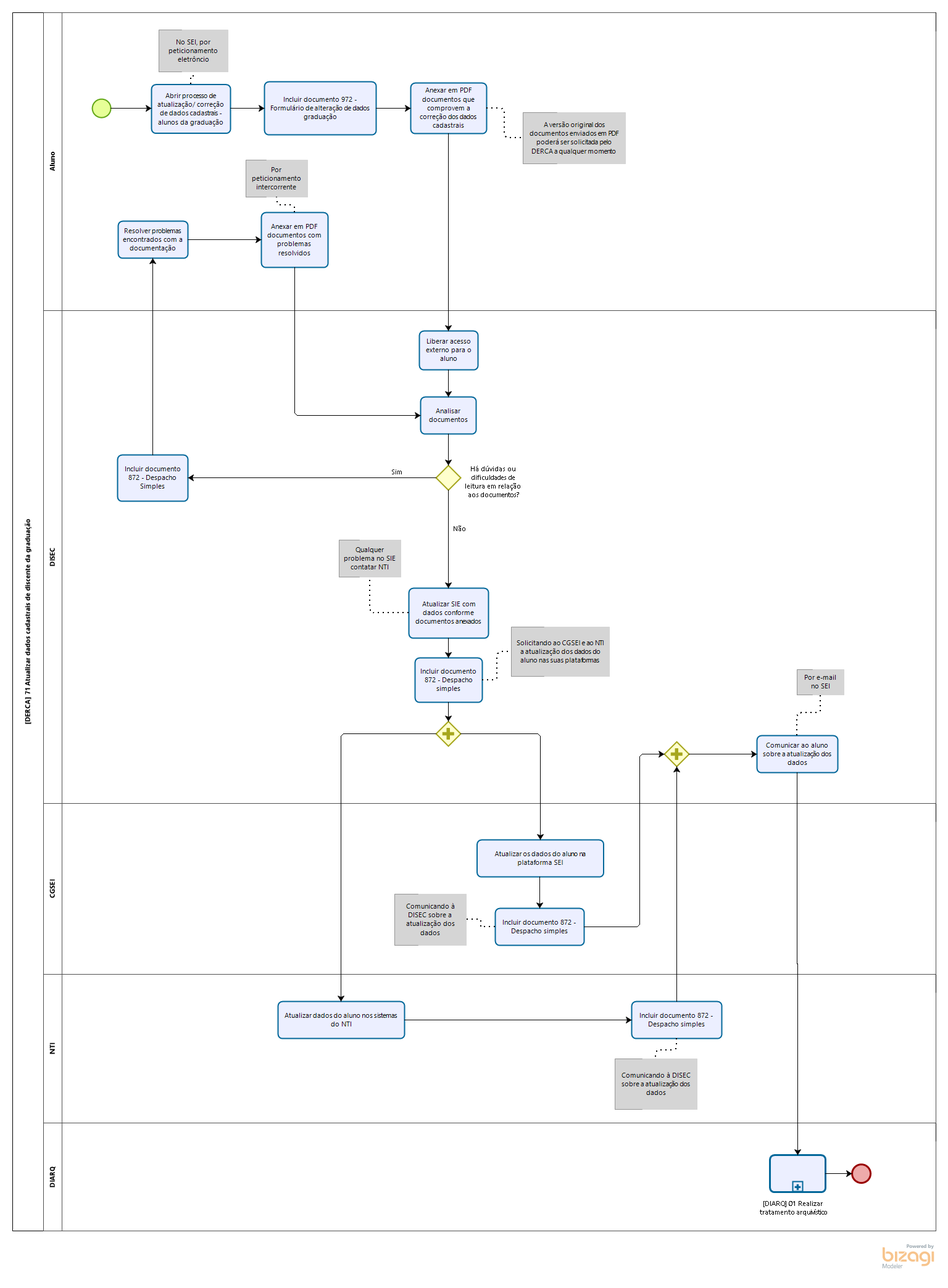
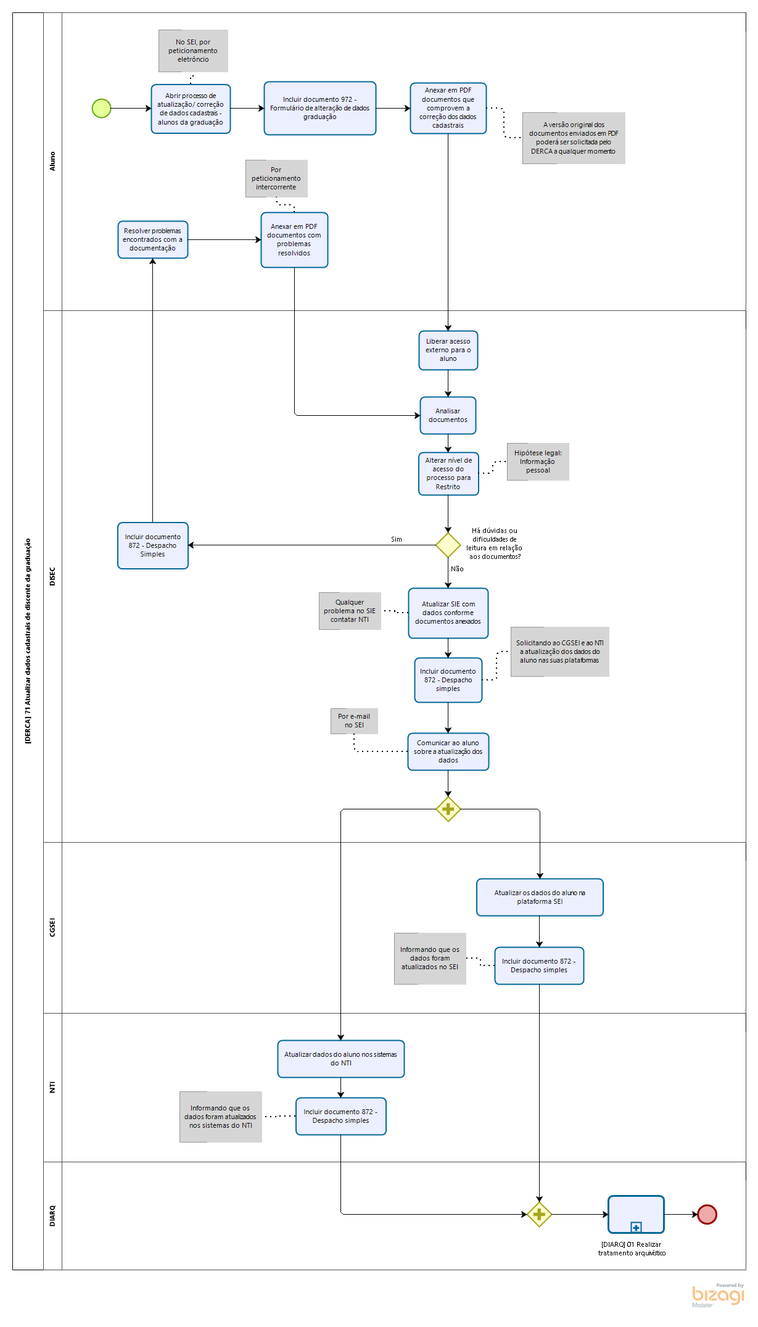
DERCA 71

diff --git a/DERCA/DERCA 71 Atualizar dados cadastrais de discente da graduacao/libs/js/json/configuration.json.js b/DERCA/DERCA 71 Atualizar dados cadastrais de discente da graduacao/libs/js/json/configuration.json.js
@@ -1,1 +1,1 @@
-Bizagi.AppModel = {"personalized":false,"userLogoName":"\\libs\\img\\biz-ex-logo.png","bizagiUrl":"http://www.bizagi.com","productName":"Bizagi Modeler","modelName":"[DERCA] 71 Atualizar dados cadastrais de discente da graduação","publishDate":"24/06/2021 10:15:14","pages":[{"id":"8a4c0eea-1cdb-470b-936f-0b0d9f3e6386","name":"[DERCA] 71 Atualizar dados cadastrais de discente da graduação","version":"1.0","author":"rene","image":"files\\diagrams\\DERCA]_71_Atualizar_dados_cadastrais_de_discente_da_graduacao.png","isSubprocessPage":false,"elements":[{"id":"01489ed8-34c3-4faa-807f-bab0b367f8d5","name":"[DERCA] 71 Atualizar dados cadastrais de discente da graduação","elementImage":"files\\bpmnElements\\Participant.png","imageBounds":{"points":[{"x":20.0,"y":20.0}],"radius":0.0,"height":1975.0,"width":50.0,"shape":"rect"},"elementType":"Participant","properties":[],"pageElements":[{"id":"837f6604-ac6e-47e7-9699-b2a0cd686df3","name":"Nenhum início","elementImage":"files\\bpmnElements\\NoneStart.png","imageBounds":{"points":[{"x":149.0,"y":160.0}],"radius":15.0,"height":30.0,"width":30.0,"shape":"circle"},"elementType":"NoneStart"},{"id":"4e634196-a4ea-465d-95d4-3cc49bfba6c1","name":"Abrir processo de atualização/ correção de dados cadastrais - alunos da graduação","elementImage":"files\\bpmnElements\\AbstractTask.png","imageBounds":{"points":[{"x":245.0,"y":136.5}],"radius":0.0,"height":79.0,"width":128.0,"shape":"rect"},"elementType":"AbstractTask","properties":[]},{"id":"c370749c-5533-4ff5-a66a-914c337b5676","name":"Incluir documento 972 - Formulário de alteração de dados graduação","elementImage":"files\\bpmnElements\\AbstractTask.png","imageBounds":{"points":[{"x":428.0,"y":132.0}],"radius":0.0,"height":86.0,"width":181.0,"shape":"rect"},"elementType":"AbstractTask","properties":[]},{"id":"282d659f-36bf-4560-9912-20d4199fe7d4","name":"Anexar em PDF documentos que comprovem a correção dos dados cadastrais","elementImage":"files\\bpmnElements\\AbstractTask.png","imageBounds":{"points":[{"x":665.0,"y":134.0}],"radius":0.0,"height":82.0,"width":123.0,"shape":"rect"},"elementType":"AbstractTask","properties":[]},{"id":"e0e7ec54-55cd-4f9c-81b0-0e18e890662a","name":"Liberar acesso externo para o aluno","elementImage":"files\\bpmnElements\\AbstractTask.png","imageBounds":{"points":[{"x":679.0,"y":536.0}],"radius":0.0,"height":63.0,"width":95.0,"shape":"rect"},"elementType":"AbstractTask","properties":[]},{"id":"e0c82490-71b7-4a64-8119-0a6cb2ceb7a7","name":"Analisar documentos","elementImage":"files\\bpmnElements\\AbstractTask.png","imageBounds":{"points":[{"x":681.0,"y":643.0}],"radius":0.0,"height":60.0,"width":90.0,"shape":"rect"},"elementType":"AbstractTask","properties":[]},{"id":"a85f144a-cf16-440e-b520-d7255defc7ac","name":"Há dúvidas ou dificuldades de leitura em relação aos documentos?","elementImage":"files\\bpmnElements\\ExclusiveGateway.png","imageBounds":{"points":[{"x":706.0,"y":754.0}],"radius":0.0,"height":40.0,"width":40.0,"shape":"poly"},"elementType":"ExclusiveGateway","properties":[],"pageElements":[{"name":"Não","elementType":"SequenceFlow","properties":[]},{"name":"Sim","elementType":"SequenceFlow","properties":[]}]},{"id":"b51d68a1-d2c6-46fe-9b90-f6889a250345","name":"Incluir documento 872 - Despacho Simples","elementImage":"files\\bpmnElements\\AbstractTask.png","imageBounds":{"points":[{"x":190.0,"y":737.0}],"radius":0.0,"height":75.0,"width":114.0,"shape":"rect"},"elementType":"AbstractTask","properties":[]},{"id":"85651f51-6b5a-4a91-afe0-95130e896974","name":"Resolver problemas encontrados com a documentação","elementImage":"files\\bpmnElements\\AbstractTask.png","imageBounds":{"points":[{"x":191.0,"y":358.0}],"radius":0.0,"height":60.0,"width":113.0,"shape":"rect"},"elementType":"AbstractTask","properties":[]},{"id":"4a564b7f-dc2c-4e22-8ab0-923dbff8f203","name":"Anexar em PDF documentos com problemas resolvidos","elementImage":"files\\bpmnElements\\AbstractTask.png","imageBounds":{"points":[{"x":423.0,"y":344.0}],"radius":0.0,"height":89.0,"width":108.0,"shape":"rect"},"elementType":"AbstractTask","properties":[]},{"id":"a6dcb52d-9bc4-4779-9627-f7517600910b","name":"Atualizar SIE com dados conforme documentos anexados","elementImage":"files\\bpmnElements\\AbstractTask.png","imageBounds":{"points":[{"x":662.0,"y":953.0}],"radius":0.0,"height":81.0,"width":129.0,"shape":"rect"},"elementType":"AbstractTask","properties":[]},{"id":"5ce940f6-dc89-419c-9745-ee5f7231d827","name":"Incluir documento 872 - Despacho simples","elementImage":"files\\bpmnElements\\AbstractTask.png","imageBounds":{"points":[{"x":672.0,"y":1066.0}],"radius":0.0,"height":72.0,"width":109.0,"shape":"rect"},"elementType":"AbstractTask","properties":[]},{"id":"e085e5ca-5b50-4a0f-beb9-b75eafeeea65","name":"Gateway paralelo","elementImage":"files\\bpmnElements\\ParallelGateway.png","imageBounds":{"points":[{"x":706.0,"y":1169.0}],"radius":0.0,"height":40.0,"width":40.0,"shape":"poly"},"elementType":"ParallelGateway","properties":[],"pageElements":[]},{"id":"92df4cac-0899-4919-8c0d-7dce34400659","name":"Atualizar dados do aluno nos sistemas do NTI","elementImage":"files\\bpmnElements\\AbstractTask.png","imageBounds":{"points":[{"x":450.0,"y":1623.0}],"radius":0.0,"height":60.0,"width":205.0,"shape":"rect"},"elementType":"AbstractTask","properties":[]},{"id":"6937438b-d5cf-46e7-822c-6d1d5945f6fd","name":"Incluir documento 872 - Despacho simples","elementImage":"files\\bpmnElements\\AbstractTask.png","imageBounds":{"points":[{"x":1023.0,"y":1623.0}],"radius":0.0,"height":60.0,"width":146.0,"shape":"rect"},"elementType":"AbstractTask","properties":[]},{"id":"b216544c-f8fb-4e21-8b15-771ca4b5c0f5","name":"Atualizar os dados do aluno na plataforma SEI","elementImage":"files\\bpmnElements\\AbstractTask.png","imageBounds":{"points":[{"x":772.5,"y":1361.0}],"radius":0.0,"height":60.0,"width":205.0,"shape":"rect"},"elementType":"AbstractTask","properties":[]},{"id":"f4b71ec0-76bf-43dd-ac2a-df841a3eba24","name":"Incluir documento 872 - Despacho simples","elementImage":"files\\bpmnElements\\AbstractTask.png","imageBounds":{"points":[{"x":802.0,"y":1472.0}],"radius":0.0,"height":60.0,"width":144.0,"shape":"rect"},"elementType":"AbstractTask","properties":[]},{"id":"9fbf4537-a36e-4419-a15f-fd46d12fc00a","name":"Gateway paralelo","elementImage":"files\\bpmnElements\\ParallelGateway.png","imageBounds":{"points":[{"x":1076.0,"y":1202.0}],"radius":0.0,"height":40.0,"width":40.0,"shape":"poly"},"elementType":"ParallelGateway","properties":[],"pageElements":[]},{"id":"a9717e87-342f-4dad-82d2-9269852c8846","name":"Comunicar ao aluno  sobre a atualização dos dados","elementImage":"files\\bpmnElements\\AbstractTask.png","imageBounds":{"points":[{"x":1226.0,"y":1192.0}],"radius":0.0,"height":60.0,"width":131.0,"shape":"rect"},"elementType":"AbstractTask","properties":[]},{"id":"898a9a70-8a25-4fb3-977e-4695bb7f8f30","name":"[DIARQ] 01 Realizar tratamento arquivístico","elementImage":"files\\bpmnElements\\CallActivity.png","imageBounds":{"points":[{"x":1247.0,"y":1872.0}],"radius":0.0,"height":60.0,"width":90.0,"shape":"rect"},"elementType":"CallActivity","properties":[]},{"id":"c1519242-a482-4de4-bf2c-e5e8c65f2245","name":"Nenhum final","elementImage":"files\\bpmnElements\\NoneEnd.png","imageBounds":{"points":[{"x":1380.0,"y":1887.0}],"radius":15.0,"height":30.0,"width":30.0,"shape":"circle"},"elementType":"NoneEnd"},{"id":"88f3d118-838d-4724-b5e3-005f63f22648","name":"Aluno","elementImage":"files\\bpmnElements\\Lane.png","imageBounds":{"points":[{"x":70.0,"y":20.0}],"radius":0.0,"height":482.9,"width":30.0,"shape":"rect"},"elementType":"Lane"},{"id":"86d7b4c5-2bab-4d61-9a45-e452feec7e90","name":"DISEC","elementImage":"files\\bpmnElements\\Lane.png","imageBounds":{"points":[{"x":70.0,"y":502.9}],"radius":0.0,"height":799.1,"width":30.0,"shape":"rect"},"elementType":"Lane"},{"id":"f72a6565-b582-4aab-8540-b10a00411a66","name":"CGSEI","elementImage":"files\\bpmnElements\\Lane.png","imageBounds":{"points":[{"x":70.0,"y":1302.0}],"radius":0.0,"height":277.0,"width":30.0,"shape":"rect"},"elementType":"Lane"},{"id":"d17b851a-8ef5-4974-9c21-cbc459a23b00","name":"NTI","elementImage":"files\\bpmnElements\\Lane.png","imageBounds":{"points":[{"x":70.0,"y":1579.0}],"radius":0.0,"height":241.0,"width":30.0,"shape":"rect"},"elementType":"Lane"},{"id":"58f3d2dd-c268-4b0a-9031-218efe79d084","name":"DIARQ","elementImage":"files\\bpmnElements\\Lane.png","imageBounds":{"points":[{"x":70.0,"y":1820.0}],"radius":0.0,"height":175.0,"width":30.0,"shape":"rect"},"elementType":"Lane"}]}]}],"texts":{"tableOfContents":"Índice","pageNumber":"Página","pageNumberLabelOf":"de","version":"Versão","author":"Autor","description":"Descrição","mainPool":"Processo principal","mainPoolDescription":"Processo principal Descrição","processDiagrams":"Processar os Diagramas","processElements":"Elementos do processo","elements":"Elementos do processo","defaultElementName":"Elemento","performers":"Executantes","accountable":"Autoridade","consulted":"Consultado","informed":"Informado","connectors":"Conectores","connector":"Conector","home":"Principal","search":"Pesquisar","goToParentProcess":"<< Ir para Matriz","visitBizagi":"Visite bizagi.com","contains":"Contém {0} subprocessos","showAll":"Show all","fullScreen":"Tela inteira","zoomIn":"Ampliar","zoomOut":"Reduzir","close":"Fechar","menu":"Menu: ","errorPage":"Erro ao visualizar a página","process":"Processo","subProcess":"Subprocessos publicados","contain":"Contém","checkAttributes":"Ver atributos","checkOverview":"Ver resumo","unavailableResource":"O recurso não está disponível","localResource":"O recurso pode ser acessado localmente","performer":"Participantes","linktoimage":"Link para a  imagem","presentationAction":"Ações de apresentação","searchGlobal":"Busca todos","searchLocal":"Busca neste processo","searchResults":"Nenhum resultado encontrado","titlePage":"Start","emptyElement":"Este elemento ainda não foi documentado","unsupported":"Seu navegador não suporta conteúdo exibido por esta página. <br> Recomendamos que você atualizar o seu navegador.","details":"Detalhes","expand":"Expandir","mainPoolProperties":"Propriedades do Processo principal","cannotVisualize":"The page cannot be displayed","resourceNotFound":"The requested resource was not found:","applyTheme":"Applying new theme"},"searchMap":[{"containerId":"8a4c0eea-1cdb-470b-936f-0b0d9f3e6386","containerName":"[DERCA] 71 Atualizar dados cadastrais de discente da graduação","isSubprocess":false,"elements":[{"id":"01489ed8-34c3-4faa-807f-bab0b367f8d5","value":"[DERCA] 71 Atualizar dados cadastrais de discente da graduação"},{"id":"88f3d118-838d-4724-b5e3-005f63f22648","value":"Aluno"},{"id":"86d7b4c5-2bab-4d61-9a45-e452feec7e90","value":"DISEC"},{"id":"f72a6565-b582-4aab-8540-b10a00411a66","value":"CGSEI"},{"id":"d17b851a-8ef5-4974-9c21-cbc459a23b00","value":"NTI"},{"id":"58f3d2dd-c268-4b0a-9031-218efe79d084","value":"DIARQ"},{"id":"837f6604-ac6e-47e7-9699-b2a0cd686df3","value":""},{"id":"4e634196-a4ea-465d-95d4-3cc49bfba6c1","value":"Abrir processo de atualização/ correção de dados cadastrais - alunos da graduação"},{"id":"c370749c-5533-4ff5-a66a-914c337b5676","value":"Incluir documento 972 - Formulário de alteração de dados graduação"},{"id":"282d659f-36bf-4560-9912-20d4199fe7d4","value":"Anexar em PDF documentos que comprovem a correção dos dados cadastrais"},{"id":"e0c82490-71b7-4a64-8119-0a6cb2ceb7a7","value":"Analisar documentos"},{"id":"a85f144a-cf16-440e-b520-d7255defc7ac","value":"Há dúvidas ou dificuldades de leitura em relação aos documentos?"},{"id":"e0e7ec54-55cd-4f9c-81b0-0e18e890662a","value":"Liberar acesso externo para o aluno"},{"id":"b51d68a1-d2c6-46fe-9b90-f6889a250345","value":"Incluir documento 872 - Despacho Simples"},{"id":"c1519242-a482-4de4-bf2c-e5e8c65f2245","value":""},{"id":"b216544c-f8fb-4e21-8b15-771ca4b5c0f5","value":"Atualizar os dados do aluno na plataforma SEI"},{"id":"a6dcb52d-9bc4-4779-9627-f7517600910b","value":"Atualizar SIE com dados conforme documentos anexados"},{"id":"898a9a70-8a25-4fb3-977e-4695bb7f8f30","value":"[DIARQ] 01 Realizar tratamento arquivístico"},{"id":"85651f51-6b5a-4a91-afe0-95130e896974","value":"Resolver problemas encontrados com a documentação"},{"id":"4a564b7f-dc2c-4e22-8ab0-923dbff8f203","value":"Anexar em PDF documentos com problemas resolvidos"},{"id":"e085e5ca-5b50-4a0f-beb9-b75eafeeea65","value":""},{"id":"92df4cac-0899-4919-8c0d-7dce34400659","value":"Atualizar dados do aluno nos sistemas do NTI"},{"id":"f4b71ec0-76bf-43dd-ac2a-df841a3eba24","value":"Incluir documento 872 - Despacho simples"},{"id":"6937438b-d5cf-46e7-822c-6d1d5945f6fd","value":"Incluir documento 872 - Despacho simples"},{"id":"9fbf4537-a36e-4419-a15f-fd46d12fc00a","value":""},{"id":"a9717e87-342f-4dad-82d2-9269852c8846","value":"Comunicar ao aluno  sobre a atualização dos dados"},{"id":"5ce940f6-dc89-419c-9745-ee5f7231d827","value":"Incluir documento 872 - Despacho simples"},{"id":"0a4cd593-cc39-473a-bb1c-8f8a4079370e"},{"id":"d7dbf677-df75-4053-9f97-577488181258"},{"id":"1011c929-3e08-4acf-ae00-53b6834f65d2"},{"id":"4d2ae3e0-8c77-4d1a-ad33-9d95ef6c615c"},{"id":"fc0b138e-d225-46fa-b0a8-7f00a5e2dcc0"},{"id":"639a536a-a8a4-483f-8ac2-2ec89b38df85"},{"id":"1c3e17b3-c45b-406d-a9d2-699e0a590f34"},{"id":"65ff54fe-7d8e-4622-a905-82a30a75f88e"},{"id":"74991c57-1034-4c23-a864-db9188ed2b69"},{"id":"36945551-5748-4929-bef8-cc9c55e7ca0e"},{"id":"688d5413-d331-4da5-913d-eb94d9fce916"},{"id":"e396c4f8-048f-46dc-bc1e-dc09ca16e061"},{"id":"04778d4c-36fc-42d8-9114-b66dcd567f18"},{"id":"64e071ac-122d-401d-ac78-39b54fd12061"},{"id":"16f839b9-5da0-4b87-8324-4a51ff14a610"},{"id":"79b1a3ac-e922-4731-96b1-a2a1b07eaf5b"}]}]}
+Bizagi.AppModel = {"personalized":false,"userLogoName":"\\libs\\img\\biz-ex-logo.png","bizagiUrl":"http://www.bizagi.com","productName":"Bizagi Modeler","modelName":"[DERCA] 71 Atualizar dados cadastrais de discente da graduação","publishDate":"15/10/2021 11:24:45","pages":[{"id":"8a4c0eea-1cdb-470b-936f-0b0d9f3e6386","name":"[DERCA] 71 Atualizar dados cadastrais de discente da graduação","version":"1.0","author":"rene","image":"files\\diagrams\\DERCA]_71_Atualizar_dados_cadastrais_de_discente_da_graduacao.png","isSubprocessPage":false,"elements":[{"id":"01489ed8-34c3-4faa-807f-bab0b367f8d5","name":"[DERCA] 71 Atualizar dados cadastrais de discente da graduação","elementImage":"files\\bpmnElements\\Participant.png","imageBounds":{"points":[{"x":20.0,"y":20.0}],"radius":0.0,"height":2038.0,"width":50.0,"shape":"rect"},"elementType":"Participant","properties":[],"pageElements":[{"id":"837f6604-ac6e-47e7-9699-b2a0cd686df3","name":"Nenhum início","elementImage":"files\\bpmnElements\\NoneStart.png","imageBounds":{"points":[{"x":149.0,"y":160.0}],"radius":15.0,"height":30.0,"width":30.0,"shape":"circle"},"elementType":"NoneStart"},{"id":"4e634196-a4ea-465d-95d4-3cc49bfba6c1","name":"Abrir processo de atualização/ correção de dados cadastrais - alunos da graduação","elementImage":"files\\bpmnElements\\AbstractTask.png","imageBounds":{"points":[{"x":245.0,"y":136.5}],"radius":0.0,"height":79.0,"width":128.0,"shape":"rect"},"elementType":"AbstractTask","properties":[]},{"id":"c370749c-5533-4ff5-a66a-914c337b5676","name":"Incluir documento 972 - Formulário de alteração de dados graduação","elementImage":"files\\bpmnElements\\AbstractTask.png","imageBounds":{"points":[{"x":428.0,"y":132.0}],"radius":0.0,"height":86.0,"width":181.0,"shape":"rect"},"elementType":"AbstractTask","properties":[]},{"id":"282d659f-36bf-4560-9912-20d4199fe7d4","name":"Anexar em PDF documentos que comprovem a correção dos dados cadastrais","elementImage":"files\\bpmnElements\\AbstractTask.png","imageBounds":{"points":[{"x":665.0,"y":134.0}],"radius":0.0,"height":82.0,"width":123.0,"shape":"rect"},"elementType":"AbstractTask","properties":[]},{"id":"e0e7ec54-55cd-4f9c-81b0-0e18e890662a","name":"Liberar acesso externo para o aluno","elementImage":"files\\bpmnElements\\AbstractTask.png","imageBounds":{"points":[{"x":679.0,"y":536.0}],"radius":0.0,"height":63.0,"width":95.0,"shape":"rect"},"elementType":"AbstractTask","properties":[]},{"id":"e0c82490-71b7-4a64-8119-0a6cb2ceb7a7","name":"Analisar documentos","elementImage":"files\\bpmnElements\\AbstractTask.png","imageBounds":{"points":[{"x":681.0,"y":643.0}],"radius":0.0,"height":60.0,"width":90.0,"shape":"rect"},"elementType":"AbstractTask","properties":[]},{"id":"33ccefd7-29c9-489e-8c49-84505a87aa4e","name":"Alterar nível de acesso do processo para Restrito","elementImage":"files\\bpmnElements\\AbstractTask.png","imageBounds":{"points":[{"x":678.5,"y":733.0}],"radius":0.0,"height":69.0,"width":97.0,"shape":"rect"},"elementType":"AbstractTask","properties":[]},{"id":"a85f144a-cf16-440e-b520-d7255defc7ac","name":"Há dúvidas ou dificuldades de leitura em relação aos documentos?","elementImage":"files\\bpmnElements\\ExclusiveGateway.png","imageBounds":{"points":[{"x":706.0,"y":863.0}],"radius":0.0,"height":40.0,"width":40.0,"shape":"poly"},"elementType":"ExclusiveGateway","properties":[],"pageElements":[{"name":"Não","elementType":"SequenceFlow","properties":[]},{"name":"Sim","elementType":"SequenceFlow","properties":[]}]},{"id":"b51d68a1-d2c6-46fe-9b90-f6889a250345","name":"Incluir documento 872 - Despacho Simples","elementImage":"files\\bpmnElements\\AbstractTask.png","imageBounds":{"points":[{"x":190.5,"y":846.5}],"radius":0.0,"height":75.0,"width":114.0,"shape":"rect"},"elementType":"AbstractTask","properties":[]},{"id":"85651f51-6b5a-4a91-afe0-95130e896974","name":"Resolver problemas encontrados com a documentação","elementImage":"files\\bpmnElements\\AbstractTask.png","imageBounds":{"points":[{"x":191.0,"y":358.0}],"radius":0.0,"height":60.0,"width":113.0,"shape":"rect"},"elementType":"AbstractTask","properties":[]},{"id":"4a564b7f-dc2c-4e22-8ab0-923dbff8f203","name":"Anexar em PDF documentos com problemas resolvidos","elementImage":"files\\bpmnElements\\AbstractTask.png","imageBounds":{"points":[{"x":423.0,"y":344.0}],"radius":0.0,"height":89.0,"width":108.0,"shape":"rect"},"elementType":"AbstractTask","properties":[]},{"id":"a6dcb52d-9bc4-4779-9627-f7517600910b","name":"Atualizar SIE com dados conforme documentos anexados","elementImage":"files\\bpmnElements\\AbstractTask.png","imageBounds":{"points":[{"x":662.0,"y":953.0}],"radius":0.0,"height":81.0,"width":129.0,"shape":"rect"},"elementType":"AbstractTask","properties":[]},{"id":"5ce940f6-dc89-419c-9745-ee5f7231d827","name":"Incluir documento 872 - Despacho simples","elementImage":"files\\bpmnElements\\AbstractTask.png","imageBounds":{"points":[{"x":672.0,"y":1066.0}],"radius":0.0,"height":72.0,"width":109.0,"shape":"rect"},"elementType":"AbstractTask","properties":[]},{"id":"a9717e87-342f-4dad-82d2-9269852c8846","name":"Comunicar ao aluno  sobre a atualização dos dados","elementImage":"files\\bpmnElements\\AbstractTask.png","imageBounds":{"points":[{"x":661.0,"y":1188.0}],"radius":0.0,"height":60.0,"width":131.0,"shape":"rect"},"elementType":"AbstractTask","properties":[]},{"id":"e085e5ca-5b50-4a0f-beb9-b75eafeeea65","name":"Gateway paralelo","elementImage":"files\\bpmnElements\\ParallelGateway.png","imageBounds":{"points":[{"x":706.5,"y":1291.0}],"radius":0.0,"height":40.0,"width":40.0,"shape":"poly"},"elementType":"ParallelGateway","properties":[],"pageElements":[]},{"id":"92df4cac-0899-4919-8c0d-7dce34400659","name":"Atualizar dados do aluno nos sistemas do NTI","elementImage":"files\\bpmnElements\\AbstractTask.png","imageBounds":{"points":[{"x":450.0,"y":1686.0}],"radius":0.0,"height":60.0,"width":205.0,"shape":"rect"},"elementType":"AbstractTask","properties":[]},{"id":"6937438b-d5cf-46e7-822c-6d1d5945f6fd","name":"Incluir documento 872 - Despacho simples","elementImage":"files\\bpmnElements\\AbstractTask.png","imageBounds":{"points":[{"x":479.5,"y":1779.0}],"radius":0.0,"height":60.0,"width":146.0,"shape":"rect"},"elementType":"AbstractTask","properties":[]},{"id":"b216544c-f8fb-4e21-8b15-771ca4b5c0f5","name":"Atualizar os dados do aluno na plataforma SEI","elementImage":"files\\bpmnElements\\AbstractTask.png","imageBounds":{"points":[{"x":772.5,"y":1424.0}],"radius":0.0,"height":60.0,"width":205.0,"shape":"rect"},"elementType":"AbstractTask","properties":[]},{"id":"f4b71ec0-76bf-43dd-ac2a-df841a3eba24","name":"Incluir documento 872 - Despacho simples","elementImage":"files\\bpmnElements\\AbstractTask.png","imageBounds":{"points":[{"x":802.0,"y":1535.0}],"radius":0.0,"height":60.0,"width":144.0,"shape":"rect"},"elementType":"AbstractTask","properties":[]},{"id":"9fbf4537-a36e-4419-a15f-fd46d12fc00a","name":"Gateway paralelo","elementImage":"files\\bpmnElements\\ParallelGateway.png","imageBounds":{"points":[{"x":854.0,"y":1948.0}],"radius":0.0,"height":40.0,"width":40.0,"shape":"poly"},"elementType":"ParallelGateway","properties":[],"pageElements":[]},{"id":"898a9a70-8a25-4fb3-977e-4695bb7f8f30","name":"[DIARQ] 01 Realizar tratamento arquivístico","description":"","elementImage":"files\\bpmnElements\\CallActivity.png","imageBounds":{"points":[{"x":986.0,"y":1938.0}],"radius":0.0,"height":60.0,"width":90.0,"shape":"rect"},"elementType":"CallActivity","properties":[],"presentationAction":{"value":"https://wwwnqiportai.github.io/DIARQ/DIARQ%2001%20Realizar%20tratamento%20arquivistico/#list","type":"url"}},{"id":"c1519242-a482-4de4-bf2c-e5e8c65f2245","name":"Nenhum final","elementImage":"files\\bpmnElements\\NoneEnd.png","imageBounds":{"points":[{"x":1131.0,"y":1953.0}],"radius":15.0,"height":30.0,"width":30.0,"shape":"circle"},"elementType":"NoneEnd"},{"id":"88f3d118-838d-4724-b5e3-005f63f22648","name":"Aluno","elementImage":"files\\bpmnElements\\Lane.png","imageBounds":{"points":[{"x":70.0,"y":20.0}],"radius":0.0,"height":482.9,"width":30.0,"shape":"rect"},"elementType":"Lane"},{"id":"86d7b4c5-2bab-4d61-9a45-e452feec7e90","name":"DISEC","elementImage":"files\\bpmnElements\\Lane.png","imageBounds":{"points":[{"x":70.0,"y":502.9}],"radius":0.0,"height":862.1,"width":30.0,"shape":"rect"},"elementType":"Lane"},{"id":"f72a6565-b582-4aab-8540-b10a00411a66","name":"CGSEI","elementImage":"files\\bpmnElements\\Lane.png","imageBounds":{"points":[{"x":70.0,"y":1365.0}],"radius":0.0,"height":277.0,"width":30.0,"shape":"rect"},"elementType":"Lane"},{"id":"d17b851a-8ef5-4974-9c21-cbc459a23b00","name":"NTI","elementImage":"files\\bpmnElements\\Lane.png","imageBounds":{"points":[{"x":70.0,"y":1642.0}],"radius":0.0,"height":241.0,"width":30.0,"shape":"rect"},"elementType":"Lane"},{"id":"58f3d2dd-c268-4b0a-9031-218efe79d084","name":"DIARQ","elementImage":"files\\bpmnElements\\Lane.png","imageBounds":{"points":[{"x":70.0,"y":1883.0}],"radius":0.0,"height":175.0,"width":30.0,"shape":"rect"},"elementType":"Lane"}]}]}],"texts":{"tableOfContents":"Índice","pageNumber":"Página","pageNumberLabelOf":"de","version":"Versão","author":"Autor","description":"Descrição","mainPool":"Processo principal","mainPoolDescription":"Processo principal Descrição","processDiagrams":"Processar os Diagramas","processElements":"Elementos do processo","elements":"Elementos do processo","defaultElementName":"Elemento","performers":"Executantes","accountable":"Autoridade","consulted":"Consultado","informed":"Informado","connectors":"Conectores","connector":"Conector","home":"Principal","search":"Pesquisar","goToParentProcess":"<< Ir para Matriz","visitBizagi":"Visite bizagi.com","contains":"Contém {0} subprocessos","showAll":"Show all","fullScreen":"Tela inteira","zoomIn":"Ampliar","zoomOut":"Reduzir","close":"Fechar","menu":"Menu: ","errorPage":"Erro ao visualizar a página","process":"Processo","subProcess":"Subprocessos publicados","contain":"Contém","checkAttributes":"Ver atributos","checkOverview":"Ver resumo","unavailableResource":"O recurso não está disponível","localResource":"O recurso pode ser acessado localmente","performer":"Participantes","linktoimage":"Link para a  imagem","presentationAction":"Ações de apresentação","searchGlobal":"Busca todos","searchLocal":"Busca neste processo","searchResults":"Nenhum resultado encontrado","titlePage":"Start","emptyElement":"Este elemento ainda não foi documentado","unsupported":"Seu navegador não suporta conteúdo exibido por esta página. <br> Recomendamos que você atualizar o seu navegador.","details":"Detalhes","expand":"Expandir","mainPoolProperties":"Propriedades do Processo principal","cannotVisualize":"The page cannot be displayed","resourceNotFound":"The requested resource was not found:","applyTheme":"Applying new theme"},"searchMap":[{"containerId":"8a4c0eea-1cdb-470b-936f-0b0d9f3e6386","containerName":"[DERCA] 71 Atualizar dados cadastrais de discente da graduação","isSubprocess":false,"elements":[{"id":"01489ed8-34c3-4faa-807f-bab0b367f8d5","value":"[DERCA] 71 Atualizar dados cadastrais de discente da graduação"},{"id":"88f3d118-838d-4724-b5e3-005f63f22648","value":"Aluno"},{"id":"86d7b4c5-2bab-4d61-9a45-e452feec7e90","value":"DISEC"},{"id":"f72a6565-b582-4aab-8540-b10a00411a66","value":"CGSEI"},{"id":"d17b851a-8ef5-4974-9c21-cbc459a23b00","value":"NTI"},{"id":"58f3d2dd-c268-4b0a-9031-218efe79d084","value":"DIARQ"},{"id":"837f6604-ac6e-47e7-9699-b2a0cd686df3","value":""},{"id":"4e634196-a4ea-465d-95d4-3cc49bfba6c1","value":"Abrir processo de atualização/ correção de dados cadastrais - alunos da graduação"},{"id":"c370749c-5533-4ff5-a66a-914c337b5676","value":"Incluir documento 972 - Formulário de alteração de dados graduação"},{"id":"282d659f-36bf-4560-9912-20d4199fe7d4","value":"Anexar em PDF documentos que comprovem a correção dos dados cadastrais"},{"id":"e0c82490-71b7-4a64-8119-0a6cb2ceb7a7","value":"Analisar documentos"},{"id":"a85f144a-cf16-440e-b520-d7255defc7ac","value":"Há dúvidas ou dificuldades de leitura em relação aos documentos?"},{"id":"e0e7ec54-55cd-4f9c-81b0-0e18e890662a","value":"Liberar acesso externo para o aluno"},{"id":"b51d68a1-d2c6-46fe-9b90-f6889a250345","value":"Incluir documento 872 - Despacho Simples"},{"id":"c1519242-a482-4de4-bf2c-e5e8c65f2245","value":""},{"id":"b216544c-f8fb-4e21-8b15-771ca4b5c0f5","value":"Atualizar os dados do aluno na plataforma SEI"},{"id":"a6dcb52d-9bc4-4779-9627-f7517600910b","value":"Atualizar SIE com dados conforme documentos anexados"},{"id":"898a9a70-8a25-4fb3-977e-4695bb7f8f30","value":"[DIARQ] 01 Realizar tratamento arquivístico"},{"id":"85651f51-6b5a-4a91-afe0-95130e896974","value":"Resolver problemas encontrados com a documentação"},{"id":"4a564b7f-dc2c-4e22-8ab0-923dbff8f203","value":"Anexar em PDF documentos com problemas resolvidos"},{"id":"e085e5ca-5b50-4a0f-beb9-b75eafeeea65","value":""},{"id":"92df4cac-0899-4919-8c0d-7dce34400659","value":"Atualizar dados do aluno nos sistemas do NTI"},{"id":"f4b71ec0-76bf-43dd-ac2a-df841a3eba24","value":"Incluir documento 872 - Despacho simples"},{"id":"6937438b-d5cf-46e7-822c-6d1d5945f6fd","value":"Incluir documento 872 - Despacho simples"},{"id":"9fbf4537-a36e-4419-a15f-fd46d12fc00a","value":""},{"id":"a9717e87-342f-4dad-82d2-9269852c8846","value":"Comunicar ao aluno  sobre a atualização dos dados"},{"id":"5ce940f6-dc89-419c-9745-ee5f7231d827","value":"Incluir documento 872 - Despacho simples"},{"id":"33ccefd7-29c9-489e-8c49-84505a87aa4e","value":"Alterar nível de acesso do processo para Restrito"},{"id":"0a4cd593-cc39-473a-bb1c-8f8a4079370e"},{"id":"d7dbf677-df75-4053-9f97-577488181258"},{"id":"1011c929-3e08-4acf-ae00-53b6834f65d2"},{"id":"4d2ae3e0-8c77-4d1a-ad33-9d95ef6c615c"},{"id":"fc0b138e-d225-46fa-b0a8-7f00a5e2dcc0"},{"id":"639a536a-a8a4-483f-8ac2-2ec89b38df85"},{"id":"1c3e17b3-c45b-406d-a9d2-699e0a590f34"},{"id":"65ff54fe-7d8e-4622-a905-82a30a75f88e"},{"id":"dc976450-4152-4116-beb3-73c32213daa2"},{"id":"74991c57-1034-4c23-a864-db9188ed2b69"},{"id":"36945551-5748-4929-bef8-cc9c55e7ca0e"},{"id":"688d5413-d331-4da5-913d-eb94d9fce916"},{"id":"e396c4f8-048f-46dc-bc1e-dc09ca16e061"},{"id":"04778d4c-36fc-42d8-9114-b66dcd567f18"},{"id":"64e071ac-122d-401d-ac78-39b54fd12061"},{"id":"16f839b9-5da0-4b87-8324-4a51ff14a610"},{"id":"79b1a3ac-e922-4731-96b1-a2a1b07eaf5b"},{"id":"4d368d1c-290c-4a47-8528-8f0d00caab94"}]}]}
